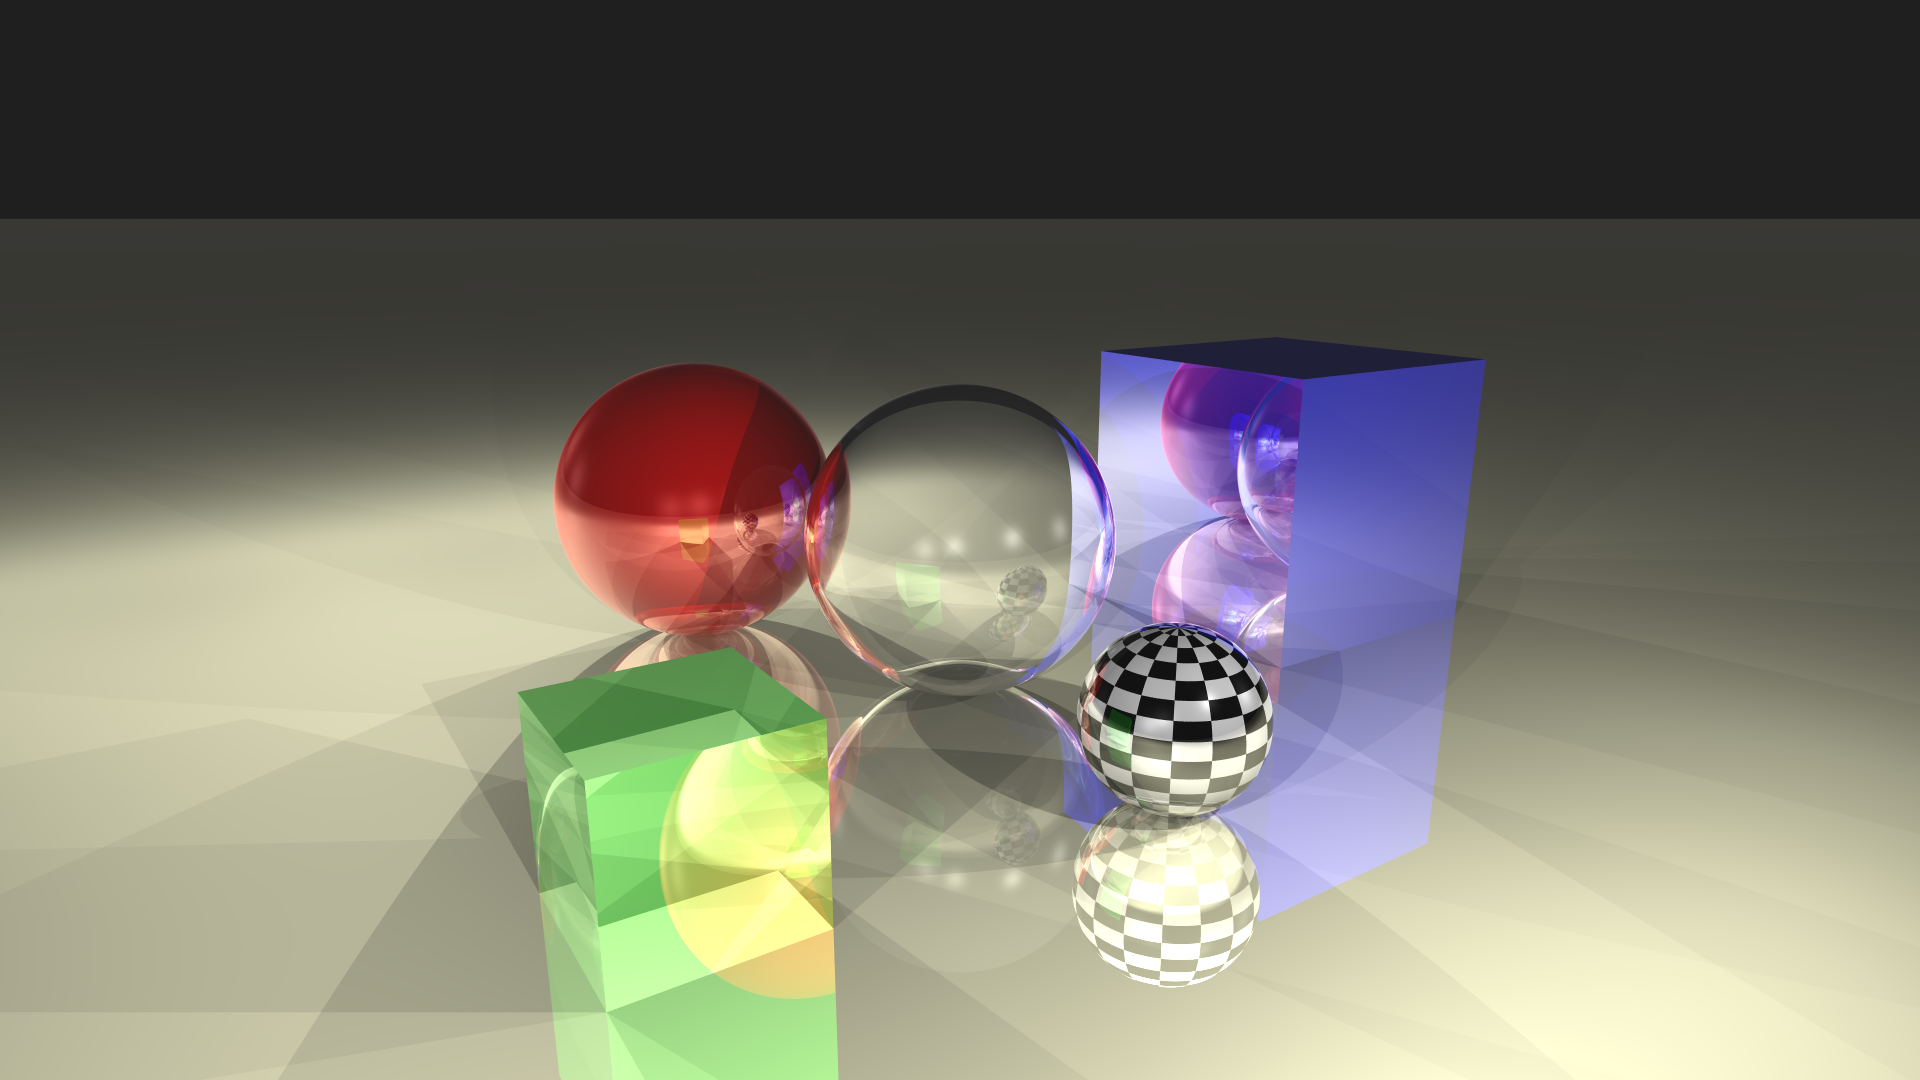
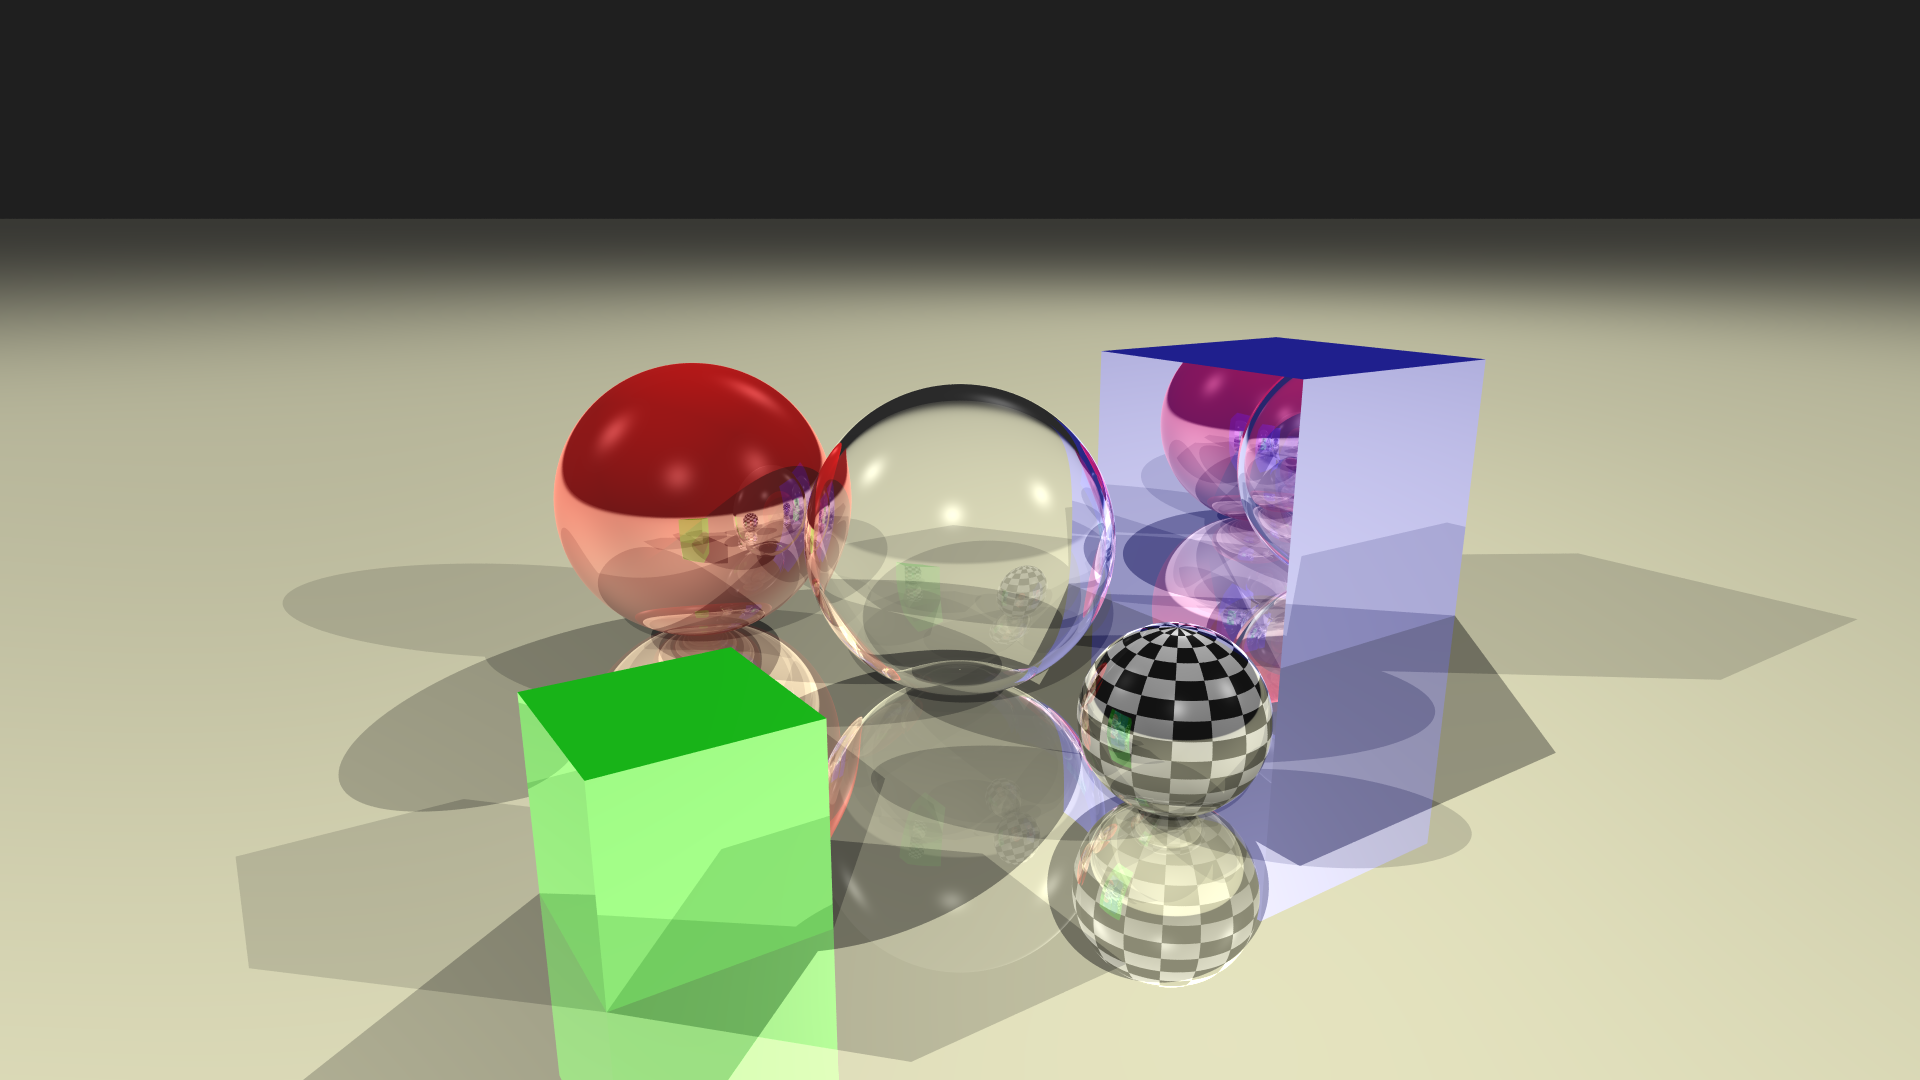
update example render

diff --git a/src/Main.java b/src/Main.java
@@ -24,14 +24,17 @@ public class Main {
 
         Light ambient = new Light(new Vector3D(), new Vector3D(1, 1, 1), 1);
         Light[] lights = {
-                new Light(new Vector3D(-3, 0.5, 0), new Vector3D(1, 1, 1), 1D),
-                new Light(new Vector3D(-1.5, 0.5, 0), new Vector3D(1, 1, 1), 1D),
-                new Light(new Vector3D(0, 0.5, 0), new Vector3D(1, 1, 1), 1D),
-                new Light(new Vector3D(1.5, 0.5, 0), new Vector3D(1, 1, 1), 1D),
-                new Light(new Vector3D(-3, 0.5, -5), new Vector3D(1, 1, 1), 1D),
-                new Light(new Vector3D(-1.5, 0.5, -5), new Vector3D(1, 1, 1), 1D),
-                new Light(new Vector3D(0, 0.5, -5), new Vector3D(1, 1, 1), 1D),
-                new Light(new Vector3D(1.5, 0.5, -5), new Vector3D(1, 1, 1), 1D)
+                new Light(new Vector3D(-10, 10, -10), new Vector3D(1, 1, 1), 10D),
+                new Light(new Vector3D(-10, 10, 10), new Vector3D(1, 1, 1), 10D),
+                new Light(new Vector3D(10, 10, -10), new Vector3D(1, 1, 1), 10D),
+                new Light(new Vector3D(10, 10, 10), new Vector3D(1, 1, 1), 10D),
+//                new Light(new Vector3D(-1.5, 0.5, 0), new Vector3D(1, 1, 1), 1D),
+//                new Light(new Vector3D(0, 0.5, 0), new Vector3D(1, 1, 1), 1D),
+//                new Light(new Vector3D(1.5, 0.5, 0), new Vector3D(1, 1, 1), 1D),
+//                new Light(new Vector3D(-3, 0.5, -5), new Vector3D(1, 1, 1), 1D),
+//                new Light(new Vector3D(-1.5, 0.5, -5), new Vector3D(1, 1, 1), 1D),
+//                new Light(new Vector3D(0, 0.5, -5), new Vector3D(1, 1, 1), 1D),
+//                new Light(new Vector3D(1.5, 0.5, -5), new Vector3D(1, 1, 1), 1D)
         };
 
         Object[] objects = new Object[] {
@@ -39,7 +42,7 @@ public class Main {
                 new Sphere(new Vector3D(-0.5, 0, -3), 0.5D, new Reflective(new Vector3D(1, 0, 0), 0.1D, 0.6D, 0.6D, 50, 0.2D, 0.617D, 2.63D)),
                 new Sphere(new Vector3D(0, -0.25, -1), 0.25D, new Pattern(new Checker(16, 16, new Vector3D(0, 0, 0), new Vector3D(1, 1, 1)), 0.1D, 0.6D, 0.6D, 50, 0.6D, 2.485D, 3.433D)),
                 new Box(new Vector3D(1, -0.5, -1.5), new Vector3D(2, 0.5, -2.5), new Reflective(new Vector3D(0D, 0D, 1D), 0.1D, 0.4D, 0.5, 32, 0.3D, 0.177, 3.638)),
-                new Box(new Vector3D(-1.5, -0.5, -1), new Vector3D(-1, 0, -1.5), new ColoredGlass(new Vector3D(0, 1, 0), 0.1D, 1.52)),
+                new Box(new Vector3D(-1.5, -0.5, -1), new Vector3D(-1, 0, -1.5), new Reflective(new Vector3D(0, 1, 0), 0.1D, 0.6D, 0.6D, 32, 0.3D, 0.617, 2.63)),
                 new Plane(-0.5, new Vector3D(0, 1, 0), new Reflective(new Vector3D(255/255D, 253/255D, 208/255D), 0.1D, 0.6D, 0.5D, 4, 1, 0.617D, 2.63D))
         };
 
